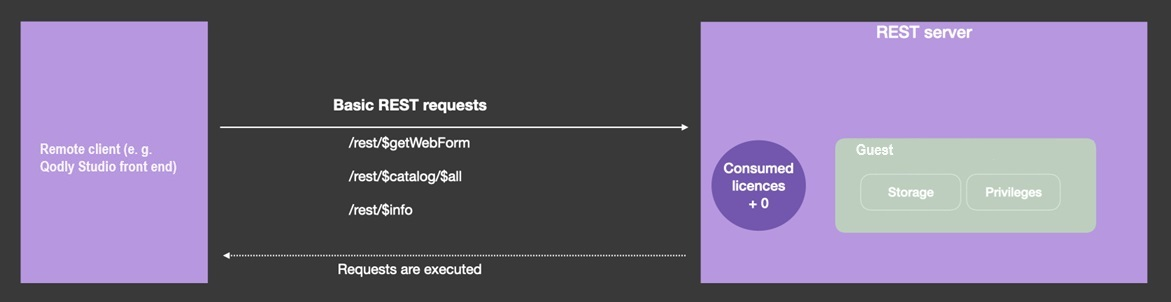
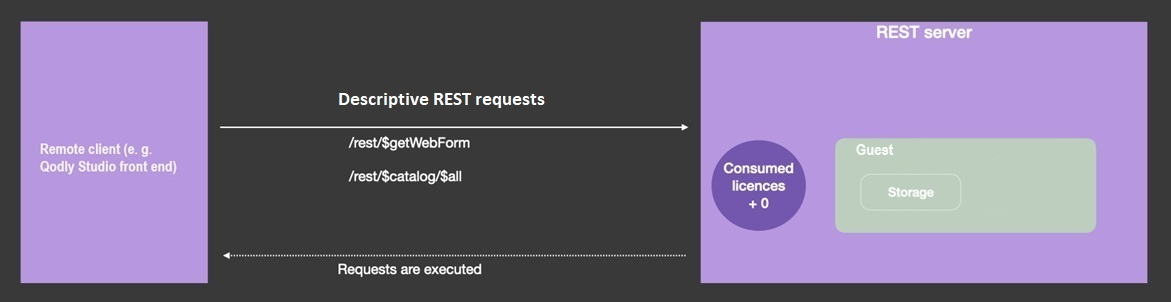
proofread marie sophie

Changed region(s): [[0.2767, 0.298, 0.4611, 0.3874], [0.2767, 0.6556, 0.3689, 0.7152], [0.8301, 0.6258, 0.8915, 0.6556]]

diff --git a/docs/REST/authUsers.md b/docs/REST/authUsers.md
@@ -29,14 +29,14 @@ If you modify this property, the server must be restarted to take the change int
 
 :::note
 
-In Qodly Studio in 4D, the mode can be set using the [**Force login** option](../webServer/qodly-studio.md#force-login) in the Privileges panel. 
+In Qodly Studio for 4D, the mode can be set using the [**Force login** option](../webServer/qodly-studio.md#force-login) in the Privileges panel. 
 
 :::
 
 
 ### Default mode
 
-In the default mode, any REST request is processed in a web session that automatically consumes a license (the web user session is created if it does not already exist). You can use this simple mode if you don't need to control how many licenses are retained on the server.
+In the default mode, any REST request is processed in a web user session that automatically consumes a license (the web user session is created if it does not already exist). You can use this simple mode if you don't need to control how many licenses are retained on the server.
 When the default mode is enabled, you can authenticate users through the `On REST Authentication` database method (see below).
 
 
@@ -44,7 +44,7 @@ When the default mode is enabled, you can authenticate users through the `On RES
 
 In "force login" mode, web user sessions and license usage are disconnected. A license is required only when the [`Session.setPrivileges()`](../API/SessionClass.md#setprivileges) is executed, allowing you to control the number of used licenses.    
 
-Basic REST requests are processed in "guest" web user sessions that do not require licenses. These requests are:
+Descriptive REST requests are processed in "guest" web user sessions that do not require licenses. These requests are:
 
 - `/rest/$catalog/$all` - the list of all exposed dataclasses
 - `/rest/$catalog/authentify` - the datastore function used to login the user 
@@ -52,12 +52,12 @@ Basic REST requests are processed in "guest" web user sessions that do not requi
 
 ![alt-text](../assets/en/REST/force-login-1.jpeg)
 
-All other REST requests (asking for data or executing a function) will only be processed if they are executed within a web session with relevant privileges, otherwise they return an error. To assign privileges to a web session, you need to execute the [`Session.setPrivileges()`](../API/SessionClass.md#setprivileges) function for the session, which requires a 4D license.  
+All other REST requests (handling data or executing a function) will only be processed if they are executed within a web session with relevant privileges, otherwise they return an error. To assign privileges to a web session, you need to execute the [`Session.setPrivileges()`](../API/SessionClass.md#setprivileges) function for the session. Executing this function triggers the 4D license consumption.  
 
 This mode allows you to implement the following login sequence:
 
-1. At the first REST call (webform call for example), a "guest" web user session is created. It has no privileges, no rights to execute requests other than basic requests, no license consumption.
-2. If necessary, you call your exposed [datastore class function](../ORDA/ordaClasses.md#datastore-class) named `authentify()` (created beforehand), in which you check the user credentials and call [`Session.setPrivileges()`](../API/SessionClass.md#setprivileges) with appropriate privileges.
+1. At the first REST call (for a webform call for example), a "guest" web user session is created. It has no privileges, no rights to execute requests other than descriptive requests, no license consumption.
+2. You call your exposed [datastore class function](../ORDA/ordaClasses.md#datastore-class) named `authentify()` (created beforehand), in which you check the user credentials and call [`Session.setPrivileges()`](../API/SessionClass.md#setprivileges) with appropriate privileges.
 3. The `/rest/$catalog/authentify` request is sent to the server along with user credentials. This step only requires a basic login form that do not access data; it can be a Qodly form (called via the `/rest/$getWebForm` request).
 4. If the user is successfully authentified, a 4D license is consumed on the server and all REST requests are accepted. 
 
@@ -125,8 +125,8 @@ To call the `authentify()` function:
 Body of the request: 
 
 ```json
-["name":"Henry",
-"password":"123"]
+[{"name":"Henry",
+"password":"123"}]
 ```
 
 

diff --git a/docs/WebServer/qodly-studio.md b/docs/WebServer/qodly-studio.md
@@ -306,9 +306,9 @@ You can also set this option directly in the [**roles.json** file](../ORDA/privi
 
 :::
 
-This option automatically enables the ["force login" mode](../REST/authUsers.md#force-login-mode) for your 4D application.  
+This option enables the ["force login" mode](../REST/authUsers.md#force-login-mode) for your 4D application.  
 
-In default login mode, any REST request, including the rendering of an authentication web form, creates a web session on the server and gets a 4D Client license, whatever the actual result of authentication. In the "force login" mode, a simple authentication Qodly form can be rendered without consuming any web session/license. You just need to implemented the [`authentify()`](../REST/authUsers.md#function-authentify) function in the datastore class and call it from the Qodly form. The licence is consumed only when the user is actually logged. 
+In default login mode, any REST request, including the rendering of an authentication web form, creates a web session on the server and gets a 4D Client license, whatever the actual result of authentication. In the "force login" mode, a simple authentication Qodly form can be rendered without consuming any license. You just need to implemented the [`authentify()`](../REST/authUsers.md#function-authentify) function in the datastore class and call it from the Qodly form. The licence is consumed only when the user is actually logged. 
 
 :::info
 
@@ -355,27 +355,22 @@ When the ["force login" mode is enabled](#setting-the-force-login-mode), Qodly S
 
 Calling the logout feature from a web user session has the following effects:
 
-- the current web user session loses its privileges, only "basic" REST requests are allowed,
+- the current web user session loses its privileges, only descriptive REST requests are allowed,
 - the associated 4D license is released,
-- the `Session.storage` is kept until the web session inactivity timeout is reached (at least one hour, it can be more if the `Open datastore` command was used). During this period after a logout, if the user logs in again, the same session is used and the `Session.storage` shared object is available with its current contents.
+- the `Session.storage` is kept until the web session inactivity timeout is reached (at least one hour). During this period after a logout, if the user logs in again, the same session is used and the `Session.storage` shared object is available with its current contents.
  
-To logout the user, you only need to call the `__logout()` datastore class function. You must have created this function as an exposed [datastore class function](../ORDA/ordaClasses.md#datastore-class) beforehand.
+To logout the user, you only need to call the `**ds.__logout()**` [datastore class function](../ORDA/ordaClasses.md#datastore-class).
 
-#### Syntax
-
-```4d
-exposed Function __logout()
-```
 
 When this function is called:
 
-- the session becomes "non logged", its privileges are cleared
+- the session becomes guest, its privileges are cleared
 - one 4D Client license is freed
 - the `Session.storage` is left untouched
 
 :::info
 
-The `__logout()` function can only be used in the context of Qodly forms. 
+The `ds.__logout()` function can only be used in the context of Qodly forms. 
 
 :::
 
@@ -390,7 +385,7 @@ ds.__logout()
 
 ## About license usage for rendering
 
-In default mode or in "force login" mode when the form that calls data or a function (see above), to render Qodly forms, you must have an available license, as rendering a Qodly form opens a session on the project database's main web server.
+In default mode when any form is rendered, or in "force login" mode when a form handling data or calling a function is rendered, you must have an available license, as rendering Qodly forms targets the project database's main web server.
 
 ### URL Schemes
 
